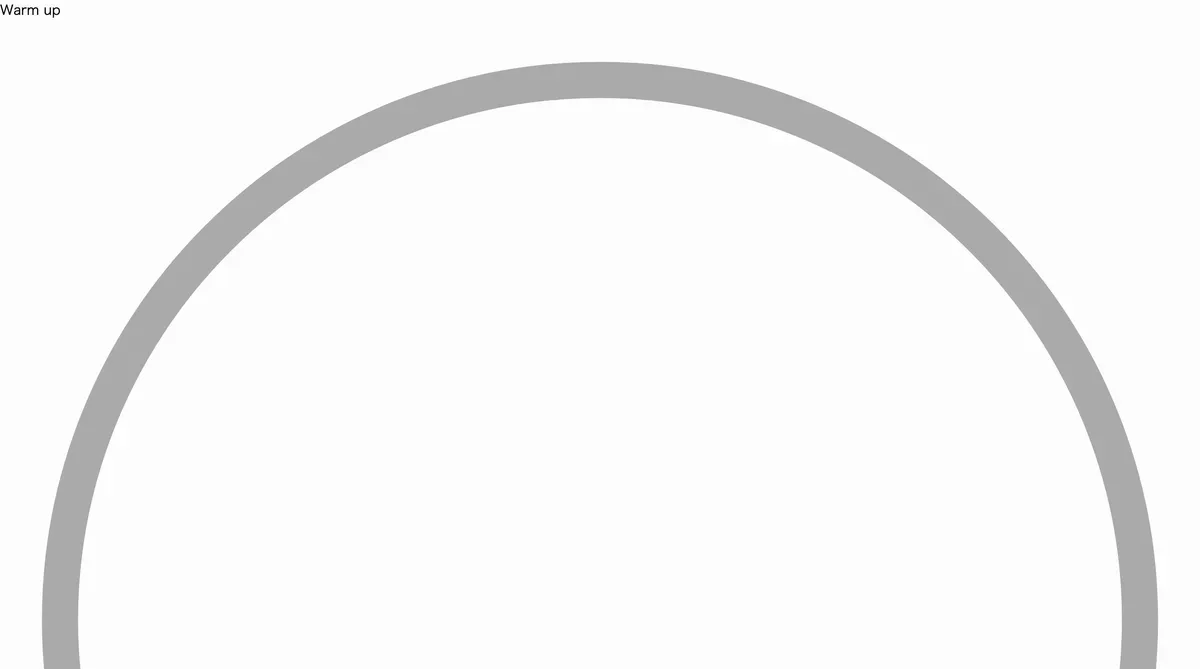
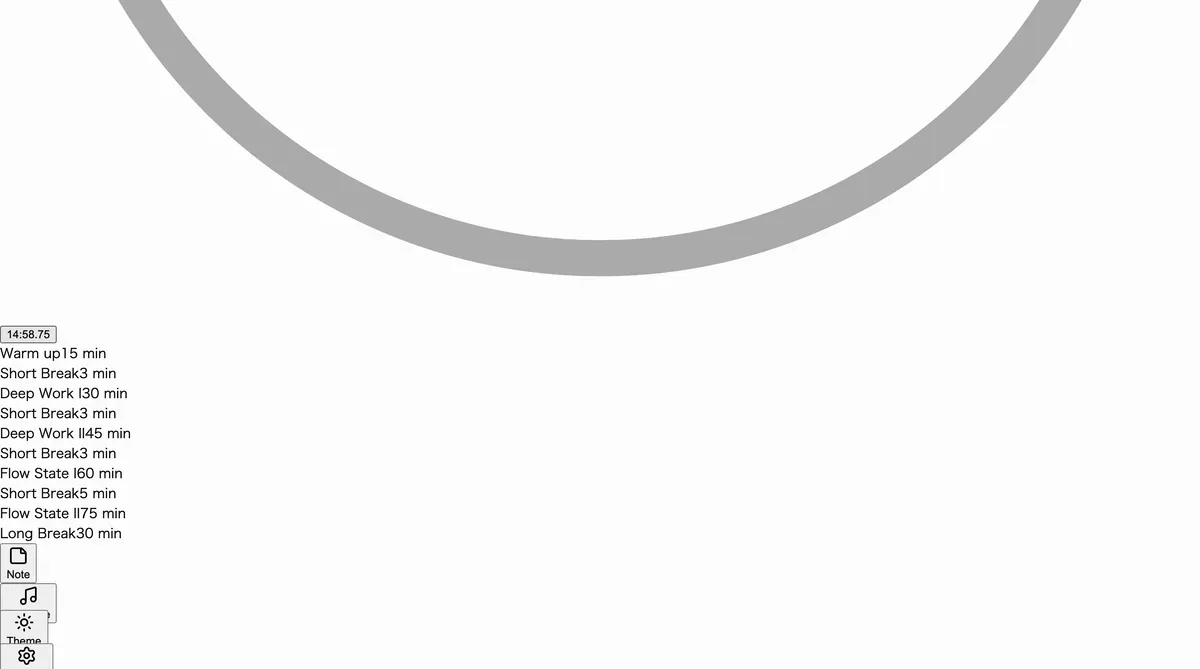
fix(tools): grant the capabilities the header cannot express, and re-capture (#817)
The download grant is the sandbox token and the fullscreen grant is the
container attribute: neither has a Permissions-Policy half for a
sandboxed frame, so the deny baseline no longer mentions them (a
site-wide deny would kill the feature, and an unknown feature name
would log a console warning on every response). The previews of
pomodoro and code-type-p5 now wait for the Tool's own running state.

Changed region(s): [[0.0, 0.0, 0.9867, 1.0], [0.0, 0.0, 0.0617, 0.0299]]

diff --git a/src/routes/tools.index.tsx b/src/routes/tools.index.tsx
@@ -225,7 +225,7 @@ const TOOL_PREVIEWS: Readonly<
 	},
 	pomodoro: {
 		src: '/tool-previews/pomodoro.webp',
-		alt: 'Pomodoro の初期画面。左上に「Warm up」と表示され、作業／休憩サイクルを表す大きな円形リングが描かれている。',
+		alt: 'Pomodoro の実行中の画面。左上に「Warm up」のフェーズ表示、その下にカウントダウン表示（14:58.75 のように減っている）、さらに下に作業／休憩のスケジュール一覧（Warm up 15 min / Short Break 3 min / Deep Work I 30 min など）が並ぶ。',
 		width: 1200,
 		height: 669,
 	},
@@ -243,7 +243,7 @@ const TOOL_PREVIEWS: Readonly<
 	},
 	'code-type-p5': {
 		src: '/tool-previews/code-type-p5.webp',
-		alt: 'Code Type p5 の初期画面。操作欄に「Play」「Edit Code」のボタンがあり、下に空のキャンバス領域が描かれている。',
+		alt: 'Code Type p5 の再生中の画面。操作欄に「Play」「Edit Code」のボタンがあり、下のキャンバスにサンプルプログラム（Rust のソースコード）が色付きで描かれている。',
 		width: 1200,
 		height: 669,
 	},
